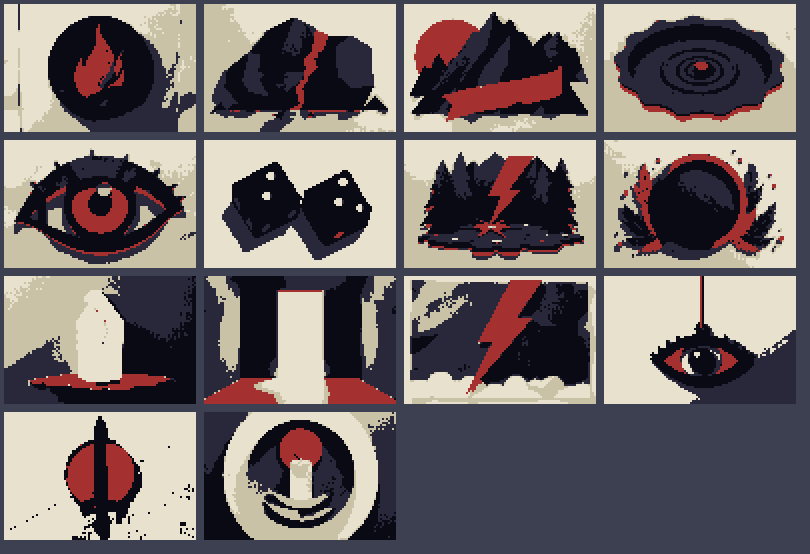
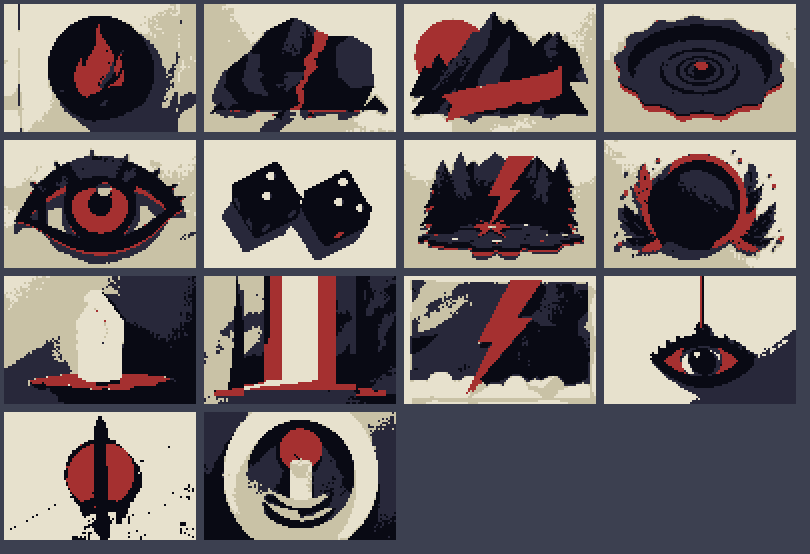
Art: keep light_v2 in the tarot hand-off
Claude-Session: https://claude.ai/code/session_019ETFw1Uj2cByEfEuTF2CxM

Changed region(s): [[0.2469, 0.491, 0.4938, 0.7365]]

diff --git a/docs/art/cutpaper-wave3.md b/docs/art/cutpaper-wave3.md
@@ -6,7 +6,7 @@ Approved by the user. Files **ready to copy**, named like the current plates: `a
 Brief: cut paper, layers of flat black shapes on cream paper with hard shadows; the palette is exactly five colours: ink 090A14, dark 28283A, paper shadow C9C2A6, paper E7E1CD and deep red A53030 (red only on banners, pools, a lantern glow, a sigil). No plate has an orange or a gold; text is none. Sources: the text-only generations of 25 November, snapped in code (`art/pixellab-cutpaper/snap.py`); `ward15` and `lose` are the `_v2` redos. Sheet `docs/art/boards/cutpaper-tower-plates-text.png`. Nothing in the game changes until UX wires them.
 
 ## 2. The tarot vignettes, the 14, redone for the weak ones (8 generations)
-Sheet `docs/art/boards/cutpaper-tarot-final.png`; the 14 ready to copy as `art/pixellab-cutpaper/tarot/handoff/{skill_fire,skill_earth,skill_wind,skill_water,skill_void,skill_ice,skill_light,skill_electricity,skill_none,die,spell_damage,spell_ward,spell_heal,spell_hex}.png` (96 x 64, the keys of UX's hook). The six redos (text only): ice (a cream crystal with a red crack), light (a cream beam through a black doorway), electricity (a deep red bolt on black: now it reads), hex (an eye on a red thread: reads), none (a black sword with a red disc: reads), heal (a candle flame with a red halo in a ring: acceptable). Not solved cleanly: heal is still the busiest of the set.
+Sheet `docs/art/boards/cutpaper-tarot-final.png`; the 14 ready to copy as `art/pixellab-cutpaper/tarot/handoff/{skill_fire,skill_earth,skill_wind,skill_water,skill_void,skill_ice,skill_light,skill_electricity,skill_none,die,spell_damage,spell_ward,spell_heal,spell_hex}.png` (96 x 64, the keys of UX's hook). The six redos (text only): ice (a cream crystal with a red crack), light (kept from the first retry, `light_v2`, as the Manager asked: red and cream bars of light), electricity (a deep red bolt on black: now it reads), hex (an eye on a red thread: reads), none (a black sword with a red disc: reads), heal (a candle flame with a red halo in a ring: acceptable). Not solved cleanly: heal is still the busiest of the set.
 
 ## 3. The heads, cropped from the full chibi characters (0 generations)
 Per the user's rule (keep the chibi art; the head is the head of a fully generated character). Sheet `docs/art/boards/heads-from-characters.png` (the current hat blob | the new crop). Crops, the top 36 % of the character's west frame, in `art/pixellab-heads-crops/final/<id>_west.png` (native pixels; UX scales as for the current heads): `cultist_acolyte` (the purple hood), `dock_overseer` (Renn: a peaked cap, a face), `hollow_reflection` (the straw-hat samurai), `inquisition_auxiliary` and `inquisition_soldier` (the hooded Inquisition figures, Soldier_03 and Soldier_02), `slum_thug` (the Noble Bouncer's bearded face), `hollow_court_zealot` (the masked Inquisition Warden). Also available from the earlier re-crop of fighter sprites: `inquisition_warden`, `iron_golem`, `street_bandit`, `void_sovereign` (`art/pixellab-wave2/heads/`).
@@ -16,3 +16,5 @@ Per the user's rule (keep the chibi art; the head is the head of a fully generat
 Sheet `docs/art/boards/icons-ink-review.png` (today 16 px | the cut-paper test 32 px | the ink-and-spot test 32 px | the Tower's ink look on the right).
 Why today's icons and the cut-paper tests do not match the Tower: (1) today's icons are saturated multi-colour fills with soft shading (a green bottle, a blue-grey metal, gold), and the Tower uses paper white, black ink and one deep red; (2) the cut-paper icons are heavy dark bodies with a bright accent hue, which reads as blobs on the paper-white screens, and they bring five different accent hues (green, blue, red, orange, violet, yellow), where the Tower has one; (3) at 16 px there is no room for ink line work.
 **Proposed style: ink icon at 32 px**: a thin black ink outline with a little hatching, paper-white fills, and **one spot colour that carries meaning, deep red by default (blood, weapons, power), and a second hue only where the object needs it (green for a cure, blue for ice or water)**. In the test (third row) the potion, dagger, sword, helm and coin read as ink drawings on paper, the boots drew an orange fill over the whole boot and should be redone as an outline with a buckle only; the helm's violet plume should be deep red under the rule. Cost for the whole set: 220 icons at 32 px, one generation each, about 290 with retries, in waves of about 70 (each needing the user's OK); the 157 skill icons stay Apollo. The test files: `art/pixellab-cutpaper/hi/final/inkicon32_*.png`.
+
+Note (the Manager's message reached me after this batch): I had redone all six including light; per the instruction the hand-off keeps the earlier `light_v2` for `skill_light.png` (the v3 light remains in `art/pixellab-cutpaper/tarot/final/light_v3.png`). The redo cost 8 generations (6 + 2 retries), inside the max of 8. The ink-spot icons (`inkicon32_*`, paper ground, black ink outline, one spot colour) are shown next to the cut-paper 32 px set on `docs/art/boards/icons-ink-review.png` (row 2 cut paper, row 3 ink).
